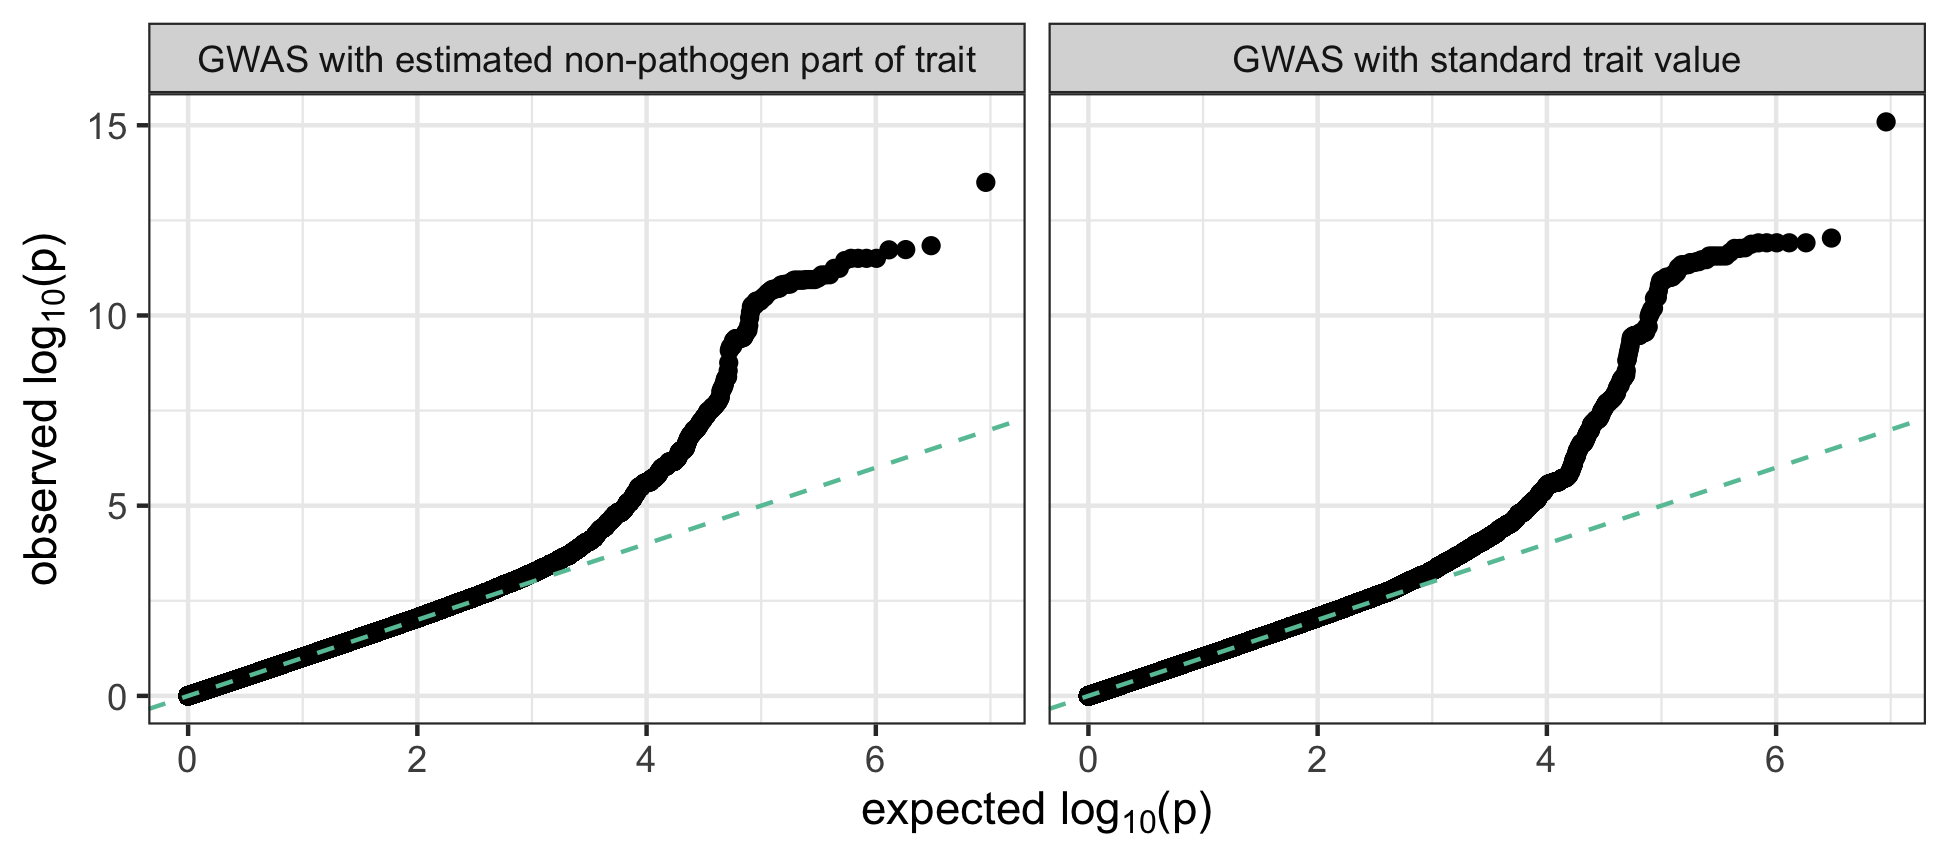
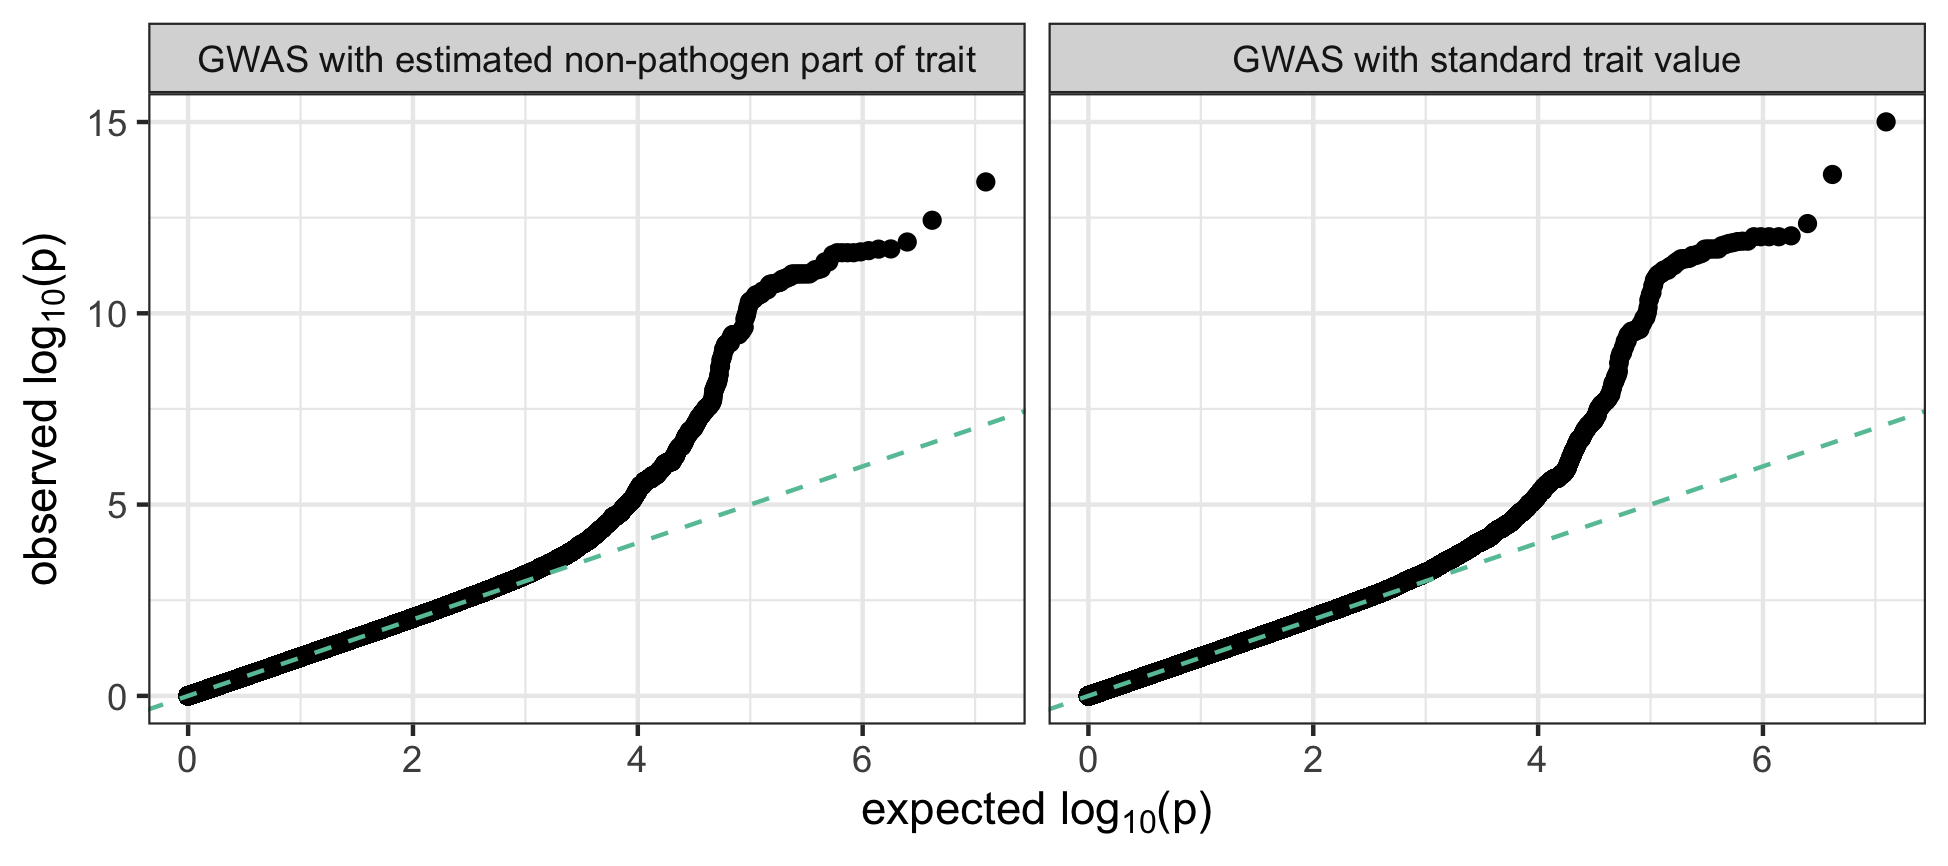
remake all figures given more lenient geno filter, write out association results for text, tables

diff --git a/figures/strongest_associations.tex b/figures/strongest_associations.tex
@@ -1,0 +1,34 @@
+% latex table generated in R 4.1.1 by xtable 1.8-4 package
+% Sat Oct 30 10:31:16 2021
+\begin{table}[ht]
+\centering
+\begin{tabular}{rlrlrrrr}
+  \hline
+ & region & POS & ID & BETA\_standard & P\_standard & BETA\_corrected & P\_corrected \\ 
+  \hline
+1 & $\backslash$emph\{CCR5\} & 46531144 & rs9845968 & -0.16 & $5.6 \times 10^{-9}$ & -0.083 & $1.2 \times 10^{-7}$ \\ 
+  2 & $\backslash$emph\{CCR5\} & 46537849 & rs867620 & -0.16 & $3.2 \times 10^{-9}$ & -0.085 & $6 \times 10^{-8}$ \\ 
+  3 & $\backslash$emph\{CCR5\} & 46539864 & rs11130092 & -0.16 & $1.1 \times 10^{-9}$ & -0.087 & $2.6 \times 10^{-8}$ \\ 
+  4 & $\backslash$emph\{CCR5\} & 46540932 & rs10865942 & -0.16 & $8.4 \times 10^{-9}$ & -0.081 & $4 \times 10^{-7}$ \\ 
+  5 & $\backslash$emph\{CCR5\} & 46541147 & rs7430431 & -0.17 & $9.2 \times 10^{-10}$ & -0.088 & $2.3 \times 10^{-8}$ \\ 
+  6 & MHC & 31274380 & rs9264942 & -0.21 & $4.5 \times 10^{-13}$ & -0.12 & $3.7 \times 10^{-13}$ \\ 
+  7 & MHC & 31321919 & rs1055821 & -0.33 & $9.4 \times 10^{-13}$ & -0.19 & $1.4 \times 10^{-12}$ \\ 
+  8 & MHC & 31380034 & rs112243036 & -0.32 & $9.9 \times 10^{-16}$ & -0.17 & $3.7 \times 10^{-14}$ \\ 
+  9 & MHC & 31391401 & rs4418214 & -0.34 & $2.4 \times 10^{-14}$ & -0.18 & $2.5 \times 10^{-12}$ \\ 
+  10 & MHC & 31400137 & rs138130755 & -0.46 & $1 \times 10^{-12}$ & -0.26 & $2.6 \times 10^{-12}$ \\ 
+  11 & MHC & 31400705 & rs138117378 & -0.46 & $1 \times 10^{-12}$ & -0.26 & $2.6 \times 10^{-12}$ \\ 
+  12 & MHC & 31402358 & rs148792134 & -0.46 & $1 \times 10^{-12}$ & -0.26 & $2.6 \times 10^{-12}$ \\ 
+  13 & MHC & 31409677 & rs140991764 & -0.46 & $1 \times 10^{-12}$ & -0.26 & $2.6 \times 10^{-12}$ \\ 
+  14 & $\backslash$emph\{CCR5\} & 46531144 & rs9845968 & -0.16 & $5.6 \times 10^{-9}$ & -0.083 & $1.2 \times 10^{-7}$ \\ 
+  15 & $\backslash$emph\{CCR5\} & 46537849 & rs867620 & -0.16 & $3.2 \times 10^{-9}$ & -0.085 & $6 \times 10^{-8}$ \\ 
+  16 & $\backslash$emph\{CCR5\} & 46539864 & rs11130092 & -0.16 & $1.1 \times 10^{-9}$ & -0.087 & $2.6 \times 10^{-8}$ \\ 
+  17 & $\backslash$emph\{CCR5\} & 46541147 & rs7430431 & -0.17 & $9.2 \times 10^{-10}$ & -0.088 & $2.3 \times 10^{-8}$ \\ 
+  18 & $\backslash$emph\{CCR5\} & 46556835 & rs6808142 & 0.15 & $8.3 \times 10^{-8}$ & 0.082 & $3.3 \times 10^{-7}$ \\ 
+  19 & MHC & 31274380 & rs9264942 & -0.21 & $4.5 \times 10^{-13}$ & -0.12 & $3.7 \times 10^{-13}$ \\ 
+  20 & MHC & 31321919 & rs1055821 & -0.33 & $9.4 \times 10^{-13}$ & -0.19 & $1.4 \times 10^{-12}$ \\ 
+  21 & MHC & 31367874 & rs111281598 & -0.37 & $1.5 \times 10^{-12}$ & -0.22 & $2.1 \times 10^{-12}$ \\ 
+  22 & MHC & 31376266 & rs73400361 & -0.37 & $1.4 \times 10^{-12}$ & -0.22 & $2.1 \times 10^{-12}$ \\ 
+  23 & MHC & 31380034 & rs112243036 & -0.32 & $9.9 \times 10^{-16}$ & -0.17 & $3.7 \times 10^{-14}$ \\ 
+   \hline
+\end{tabular}
+\end{table}

diff --git a/figures/mclaren_top_snp_comparison.tex b/figures/mclaren_top_snp_comparison.tex
@@ -1,0 +1,13 @@
+% latex table generated in R 4.1.1 by xtable 1.8-4 package
+% Sat Oct 30 10:31:17 2021
+\begin{table}[ht]
+\centering
+\begin{tabular}{rlrrrr}
+  \hline
+ & ID & BETA\_standard & P\_standard & BETA\_corrected & P\_corrected \\ 
+  \hline
+1 & rs1015164 & 0.15 & $7.5 \times 10^{-7}$ & 0.078 & $8.5 \times 10^{-6}$ \\ 
+  2 & rs59440261 & -0.4 & $3.3 \times 10^{-11}$ & -0.22 & $2.6 \times 10^{-10}$ \\ 
+   \hline
+\end{tabular}
+\end{table}
